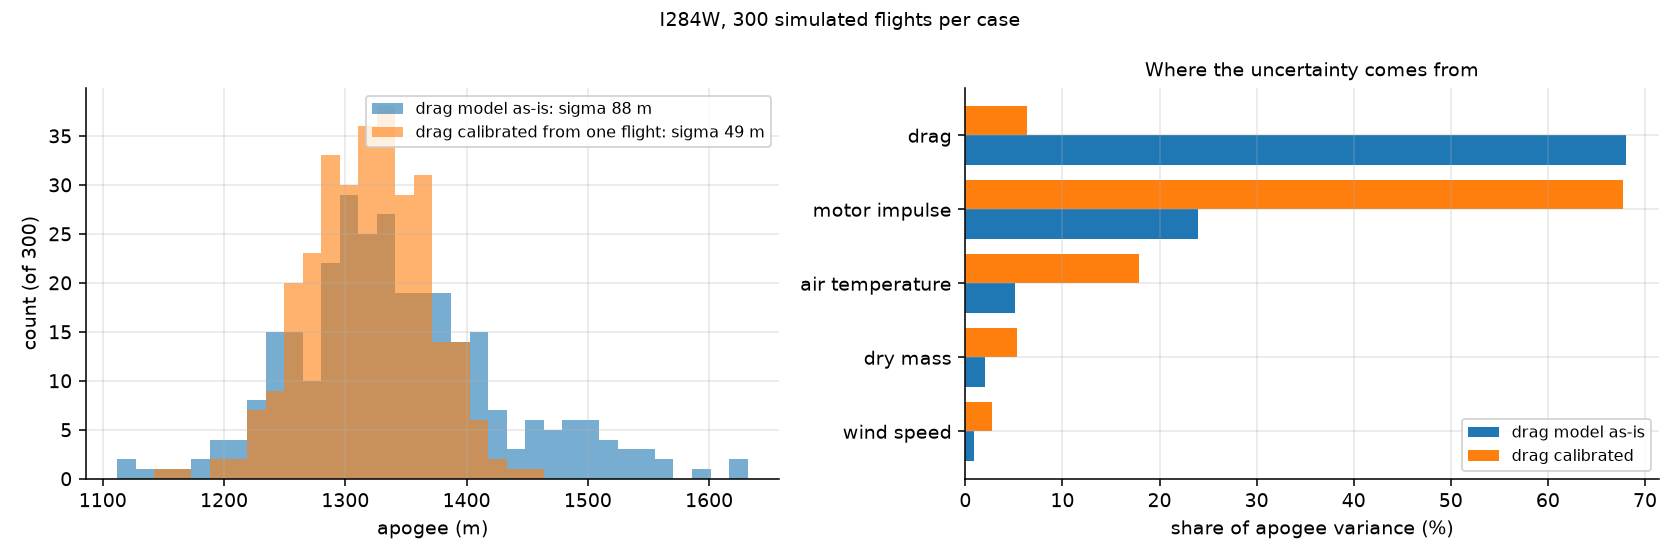
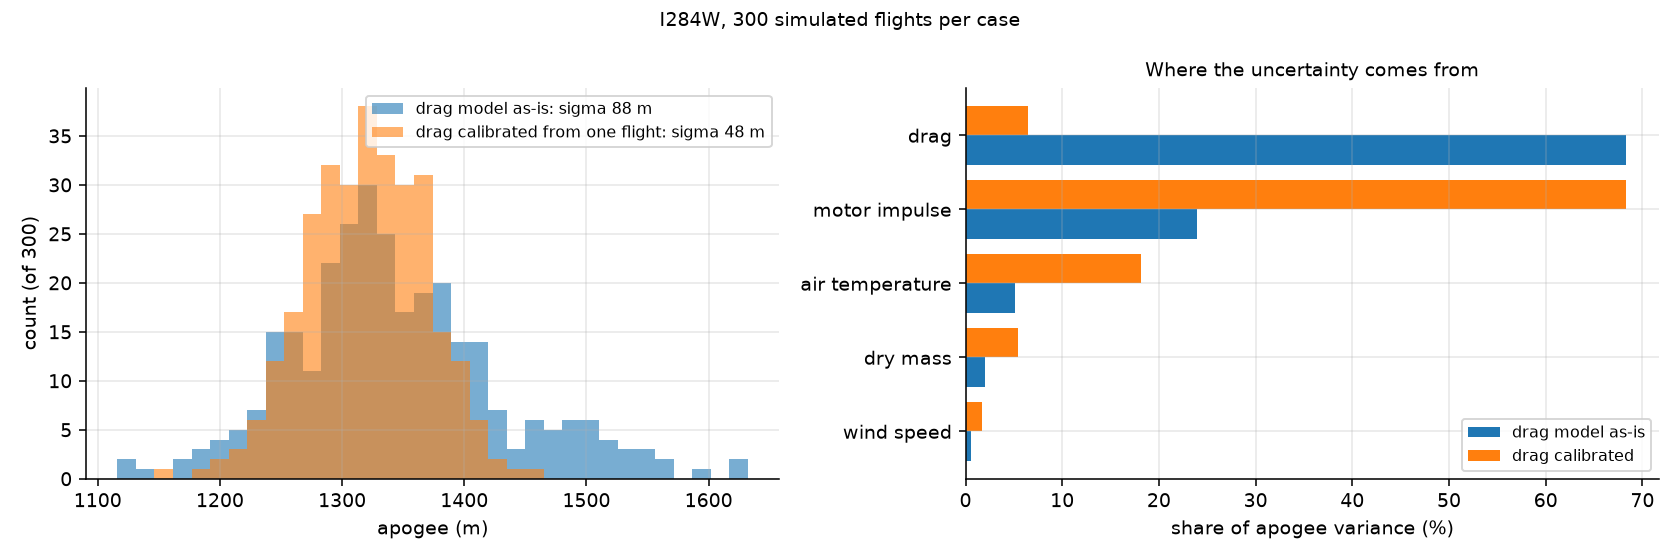
Show what body lift does to the margin and to weathercocking
New bodylift section: static margin at liftoff against angle of attack.
The I284W's 2.0-caliber margin is 0.6 at 10 degrees and ~0 at 20. All
results regenerated with body lift on: the rocket turns into the wind less
(I284W apogee 104 m upwind at 8 m/s, was 142 m) and dual deploy lands
823 m away. Monte Carlo spread barely moves (87.5 / 48.3 m).

Closes #4

diff --git a/examples/make_figures.py b/examples/make_figures.py
@@ -6,7 +6,7 @@
 
 Every simulation goes through hprsim.runner: one progress bar for the whole job,
 lowest CPU priority, and + / - keys to change how many run at once while it goes.
-Sections: thrust, baseline, weathercock, landing, montecarlo, altitude, recovery.
+Sections: thrust, baseline, weathercock, landing, montecarlo, altitude, recovery, bodylift.
 """
 from __future__ import annotations
 
@@ -27,7 +27,7 @@ FIG = ROOT / "docs" / "figures"
 RESULTS = ROOT / "docs" / "results.json"
 ROCKET = ROOT / "rockets" / "example_3in.toml"
 MOTORS = {name: ROOT / "data" / "motors" / f"AeroTech_{name}.eng" for name in ("H128W", "I284W", "J420R")}
-SECTIONS = ("thrust", "baseline", "weathercock", "landing", "montecarlo", "altitude", "recovery")
+SECTIONS = ("thrust", "baseline", "weathercock", "landing", "montecarlo", "altitude", "recovery", "bodylift")
 SITES = (0.0, 500.0, 1000.0, 1500.0, 2000.0)  # launch site elevation, m
 EXITS = (0.0, 0.012, 0.016, 0.020)  # nozzle exit diameter, m (0 = curve as certified)
 WINDS = np.arange(0, 10.1, 1.0)
@@ -302,6 +302,25 @@ def main():
             "main_at_apogee": {k: round(float(apogee_main[k]), 1) for k in ("main_opening_force_N", "main_opening_g")},
             "main_force_N_vs_speed": {f"fill_{n:.0f}D": {f"{v:.0f}": round(float(f), 0) for v, f in zip(speeds, c)}
                                       for n, c in curves.items()}}
+
+    # ---- 8. stability at a finite angle of attack (no simulation)
+    if "bodylift" in only:
+        alphas = np.arange(0.0, 25.1, 1.0)
+        fig, ax = plt.subplots(figsize=(6.5, 3.8))
+        results["bodylift"] = {}
+        for name, path in MOTORS.items():
+            r = rocket.load(ROCKET, motor=motor.Motor.from_eng(path))
+            xcg = r.mass_props(0.0)[1]
+            margin = [(r.cp_at(np.radians(max(a, 0.01))) - xcg) / r.diameter for a in alphas]
+            ax.plot(alphas, margin, label=name)
+            results["bodylift"][name] = {f"{a:.0f}deg": round(float(m), 2) for a, m in zip(alphas, margin) if a in (0, 5, 10, 15, 20)}
+        ax.axhline(0.0, color="k", lw=0.8)
+        ax.set_xlabel("angle of attack (deg)")
+        ax.set_ylabel("static margin at liftoff (calibers)")
+        ax.set_title("Body lift grows as sin^2(alpha) and acts ahead of the CG:\n"
+                     "the margin Barrowman gives only holds at small angles", fontsize=10)
+        ax.legend(fontsize=8)
+        save(fig, "margin_vs_aoa.png")
 
     RESULTS.write_text(json.dumps(results, indent=2))
     print(f"updated: {', '.join(sorted(only))}  ->  {RESULTS.relative_to(ROOT)}")

diff --git a/README.md b/README.md
@@ -30,11 +30,15 @@ The stability margin isn't one number. It climbs while the motor burns, because 
 
 ## What it taught me
 
-**Wind matters most right off the rail.** A rocket leaving a 6 ft rail at 16.7 m/s in an 8 m/s wind meets the air at a 20.6° angle of attack, so it turns hard into the wind. On the H128W a longer rail only helps a little: 18.7° from an 8 ft rail, against 23.6° from a 4 ft one. The faster I284W leaves the rail at 25 m/s and only sees 14°. Apogee barely changes (2 to 3% lower at 8 m/s), but the I284W ends up 142 m upwind of the pad at apogee.
+**Wind matters most right off the rail.** A rocket leaving a 6 ft rail at 16.7 m/s in an 8 m/s wind meets the air at a 20.6° angle of attack, so it turns hard into the wind. On the H128W a longer rail only helps a little: 18.7° from an 8 ft rail, against 23.6° from a 4 ft one. The faster I284W leaves the rail at 25 m/s and only sees 14°. Apogee barely changes (1.5 to 2.5% lower at 8 m/s), but the I284W ends up 104 m upwind of the pad at apogee.
 
 ![Weathercocking](docs/figures/weathercock.png)
 
-**Dual deploy isn't optional on a windy day.** In an 8 m/s wind, opening the main at apogee puts the I284W flight 3.4 km from the pad. Coming down fast under a small drogue and opening the main at 150 m brings that to 780 m.
+**A 2-caliber margin is a small-angle number.** Barrowman's method treats normal force as linear in the angle of attack and leaves out the body tube's own lift, which grows as sin²α. That's fine in steady flight, but not for a rocket leaving a short rail in wind at 14 to 21°. With Galejs' body-lift correction, the I284W's 2.0-caliber margin at liftoff drops to 0.6 at 10° and almost nothing at 20°, and on the J420R it goes slightly negative. The body lift acts ahead of the CG, so the simulator, which includes it, also shows the rocket turning into the wind less than plain Barrowman predicts: 104 m upwind at apogee instead of 142 m.
+
+<img src="docs/figures/margin_vs_aoa.png" width="60%">
+
+**Dual deploy isn't optional on a windy day.** In an 8 m/s wind, opening the main at apogee puts the I284W flight 3.5 km from the pad. Coming down fast under a small drogue and opening the main at 150 m brings that to 820 m.
 
 ![Landing dispersion](docs/figures/landing_dispersion.png)
 
@@ -44,7 +48,7 @@ The stability margin isn't one number. It climbs while the motor burns, because 
 
 **After you calibrate drag, the motor is the biggest unknown.** I ran 300 flights per case with realistic scatter in drag, dry mass, motor impulse (±3%), wind and air temperature.
 - **With my drag model as-is**, the apogee spread is ±88 m (1σ), and 68% of that comes from not knowing the drag well enough.
-- **After calibrating drag** from one real flight (`examples/compare_flight.py`), the spread drops to ±49 m, and now 68% of what's left is the motor itself: no two reloads give exactly the same impulse, and no amount of calibration fixes that.
+- **After calibrating drag** from one real flight (`examples/compare_flight.py`), the spread drops to ±48 m, and now 68% of what's left is the motor itself: no two reloads give exactly the same impulse, and no amount of calibration fixes that.
 
 ![Monte Carlo](docs/figures/monte_carlo.png)
 
@@ -109,7 +113,7 @@ python examples/make_figures.py --only weathercock # or just one section
 
 ## What's next
 
-See the [issues](https://github.com/aneeshkaravadi/hpr-flight-sim/issues): importing OpenRocket `.ork` files directly, transonic drag, body lift at higher angles of attack, and real flight comparisons.
+See the [issues](https://github.com/aneeshkaravadi/hpr-flight-sim/issues): importing OpenRocket `.ork` files directly, transonic drag, roll and fin cant, and real flight comparisons.
 
 ---
 

diff --git a/DERIVATIONS.md b/DERIVATIONS.md
@@ -61,6 +61,14 @@ $$X_f = X_b + \frac{X_t}{3}\frac{C_r + 2C_t}{C_r + C_t} + \frac16\left[(C_r + C_
 
 The first factor in $C_{N\alpha,f}$ accounts for the body increasing the flow over the fins. For a rectangular, unswept fin, $X_f$ lands exactly at the quarter chord, which is the classic thin-airfoil result (`test_rectangular_fin_cp_is_quarter_chord...`).
 
+**Body lift at larger angles.** The terms above are linear in $\alpha$ and leave out the body tube's own lift, which matters once the angle of attack is more than a few degrees. Galejs' correction (the one OpenRocket uses) adds
+
+$$C_{N,\text{body}} = K\,\frac{A_\text{plan}}{A_\text{ref}}\sin^2\alpha, \qquad K = 1.1$$
+
+acting at the centroid of the side-view (planform) area of the nose and body. The nose planform is $2\int r\,dx$, with its centroid from $\int 2rx\,dx$. The CP at a finite angle is the average of the linear CP and the planform centroid, weighted by their normal forces, $C_{N\alpha}\alpha$ and $C_{N,\text{body}}$ (`Rocket.cp_at`).
+
+Checked by: a cone's planform is a triangle, with area $RL$ and centroid at $\tfrac23 L$ (`test_cone_planform_area_and_centroid`). The force and moment the flight code applies match the formula (`test_body_lift_force_and_moment_follow_galejs`).
+
 **Compressibility.** The fin slope is multiplied by $1/\sqrt{1 - M^2}$ (Prandtl–Glauert), capped at $M = 0.8$. That's why the static margin rises near max speed.
 
 **Total CP and static margin:**
@@ -93,7 +101,7 @@ The example rocket comes out at $C_D \approx 0.5$ around Mach 0.3, which is in t
 - **thrust:** $F\,\hat x_b$
 - **gravity:** $-mg\,\hat z$
 - **drag:** $-\tfrac12\rho V^2 A C_D\,\hat v_a$
-- **normal force:** magnitude $\tfrac12\rho V^2 A C_{N\alpha}\,\alpha$, where the angle of attack is $\alpha = \arctan(|u_\perp|/u_x)$ and $u = R^\top\vec v_a$ is the airspeed in the body frame. It acts at the CP and points against the sideways component of the airspeed, $-\hat u_\perp$.
+- **normal force:** magnitude $\tfrac12\rho V^2 A C_{N\alpha}\,\alpha$, where the angle of attack is $\alpha = \arctan(|u_\perp|/u_x)$ and $u = R^\top\vec v_a$ is the airspeed in the body frame. It acts at the CP and points against the sideways component of the airspeed, $-\hat u_\perp$. Body lift, $\tfrac12\rho V^2 A\,C_{N,\text{body}}$, acts in the same direction at the planform centroid.
 
 **Why it weathercocks.** The CP sits behind the CG, so the normal force at the CP creates a moment $(x_{cg} - x_{cp})\hat x_b \times \vec N$. That moment turns the nose toward the direction the rocket is moving relative to the air. In a crosswind, that means turning upwind (`test_rocket_weathercocks_into_the_wind`).
 
@@ -157,7 +165,7 @@ $n$ depends on the canopy type. It is an assumption here (8 by default), which i
 
 ## Limitations
 
-- Subsonic only. There is no transonic drag rise, and no body lift at higher angles of attack (Galejs).
+- Subsonic only. There is no transonic drag rise.
 - No roll dynamics, fin cant or thrust misalignment.
 - Thrust changes with altitude only if you give the nozzle exit diameter.
 - Parachute filling is a simple model: drag area grows with distance squared, and the fill constant is an assumption.
